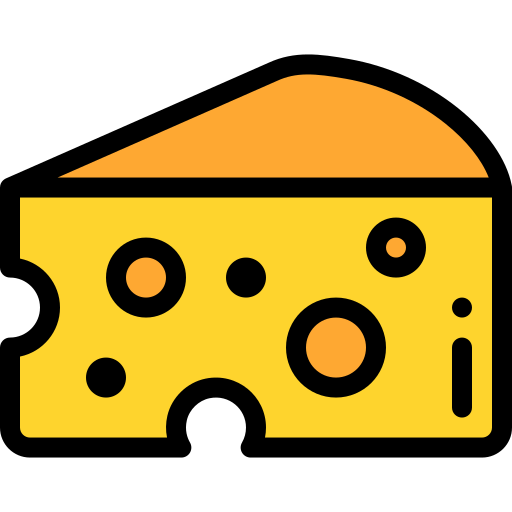
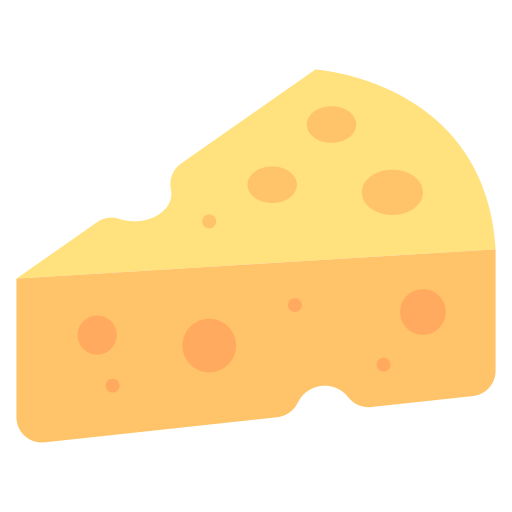
mini ikon part 2

diff --git a/Salatalar.html b/Salatalar.html
@@ -44,29 +44,17 @@
                 <h4>Keçi Peynirli Roka Salatası</h4>
                 <p>Keçi peyniri ile ceviz, roka, kuru domates ve zeytinyağlı ballı hardal sosun fevkalade birleşimi.</p>
                 <div class="ingredient-banner">
-    <div class="ingredient">
-        <img src="mini/cheese.png" alt="Keçi Peyniri">
-    </div>
-    <div class="ingredient">
-        <img src="mini/arugula.png" alt="Roka">
-    </div>
-    <div class="ingredient">
-        <img src="mini/tomato.png" alt="Kuru Domates">
-    </div>
-    <div class="ingredient">
-        <img src="mini/mustard.png" alt="Ballı Hardal">
-    </div>
-    <div class="ingredient">
-        <img src="mini/walnut.png" alt="Ceviz">
-    </div>
+    <div class="ingredient"> <img src="mini/cheese.png" alt="Keçi Peyniri"> </div>
+    <div class="ingredient"> <img src="mini/walnut.png" alt="Ceviz"> </div> 
+    <div class="ingredient"> <img src="mini/arugula.png" alt="Roka"> </div>
+    <div class="ingredient"> <img src="mini/tomato.png" alt="Kuru Domates"> </div>
+    <div class="ingredient"> <img src="mini/olive-oil.png" alt="Zeytinyağı"> </div> 
+    <div class="ingredient"> <img src="mini/mustard.png" alt="Ballı Hardal"> </div>
     </div>
 
-<div class="menu-price">
-    <span>495.00 TL</span>
-</div>
-            </div>
-        </div>
-    </div>
+<div class="menu-price"> 
+    <span>450 TL</span>
+</div> </div> </div> </div>
 
     <div class="flip-card">
         <div class="urun-ic-yapi">
@@ -77,9 +65,19 @@
             <div class="urun-arka">
                 <h4>Ton Balıklı Salata</h4>
                 <p>Ton balığı ve kapari, marul, rende havuç, kapya biberin çıtır galeta, beybi mısır ve mor lahana turşusuyla birleşimi.</p>
-            </div>
-        </div>
+                <div class="ingredient-banner">
+    <div class="ingredient"> <img src="mini/baby-corn.png" alt="Baby Mısır"> </div>
+    <div class="ingredient"> <img src="mini/bell-pepper.png" alt="Kapya Biber"> </div>
+    <div class="ingredient"> <img src="mini/caper.png" alt="Kapari"> </div>
+    <div class="ingredient"> <img src="mini/carrot.png" alt="Havuç"> </div>
+    <div class="ingredient"> <img src="mini/grissini.png" alt="Galeta"> </div>
+    <div class="ingredient"> <img src="mini/lettuce.png" alt="Marul"> </div>
+    <div class="ingredient"> <img src="mini/red-cabbage.png" alt="Mor Lahana Turşusu"> </div>
+    <div class="ingredient"> <img src="mini/tuna.png" alt="Ton Balığı"> </div>
     </div>
+<div class="menu-price"> 
+    <span>450 TL</span>
+</div> </div> </div> </div>
 
     <div class="flip-card">
         <div class="urun-ic-yapi">
@@ -90,9 +88,12 @@
             <div class="urun-arka">
                 <h4>Sezar Salata</h4>
                 <p>Izgara tavuk ve atom marulun çıtır kruton, rende parmesan ve sezar sosuyla harmanlanması.</p>
-            </div>
-        </div>
-    </div>
+                <div class="ingredient-banner">
+    <div class="ingredient"> <img src="mini/chicken-breast.png" alt="Izgara Tavuk"> </div>
+    <div class="ingredient"> <img src="mini/lettuce.png" alt="Atom Marul"> </div>
+    <div class="ingredient"> <img src="mini/grissini.png" alt="Kruton"> </div>
+    <div class="ingredient"> <img src="mini/parmesan.png" alt="Parmesan"> </div>
+    </div> </div> </div> </div>
 
     <div class="flip-card">
         <div class="urun-ic-yapi">
@@ -103,9 +104,15 @@
             <div class="urun-arka">
                 <h4>Köz Patlıcanlı Salata</h4>
                 <p>Köz patlıcan, tulum peyniri, roka, ıspanak ve cevizin pancar turşusu, nar ekşisi ve zeytinyağıyla harmanlandığı o eşsiz lezzeti.</p>
-            </div>
-        </div>
-    </div>
+            <div class="ingredient-banner">
+    <div class="ingredient"> <img src="mini/eggplant.png" alt="Köz Patlıcan"> </div>
+    <div class="ingredient"> <img src="mini/cheese.png" alt="Tulum Peyniri"> </div>
+    <div class="ingredient"> <img src="mini/arugula.png" alt="Roka"> </div>
+    <div class="ingredient"> <img src="mini/spinach.png" alt="Ispanak"> </div>
+    <div class="ingredient"> <img src="mini/walnut.png" alt="Ceviz"> </div>
+    <div class="ingredient"> <img src="mini/beet.png" alt="Pancar Turşusu"> </div>
+    <div class="ingredient"> <img src="mini/olive-oil.png" alt="Zeytinyağı"> </div>
+    </div> </div> </div> </div>
 
     <div class="flip-card">
         <div class="urun-ic-yapi">
@@ -116,6 +123,17 @@
             <div class="urun-arka">
                 <h4>Vegan Köfte Salata</h4>
                 <p>Vegan köfte ve haşlanmış mısır; marul, roka ve taze nanenin kapari, domates ve hardallı zeytinyağıyla yakaladığı efsane uyum.</p>
+                <div class="ingredient-banner">
+    <div class="ingredient"> <img src="mini/meatballs.png" alt="Vegan Köfte"> </div>
+    <div class="ingredient"> <img src="mini/corn.png" alt="Haşlanmış Mısır"> </div>
+    <div class="ingredient"> <img src="mini/lettuce.png" alt="Marul"> </div>
+    <div class="ingredient"> <img src="mini/arugula.png" alt="Roka"> </div>
+    <div class="ingredient"> <img src="mini/mint.png" alt="Nane"> </div>
+    <div class="ingredient"> <img src="mini/caper.png" alt="Kapari"> </div>
+    <div class="ingredient"> <img src="mini/tomato.png" alt="Domates"> </div>
+    <div class="ingredient"> <img src="mini/mustard.png" alt="Hardal"> </div>
+    <div class="ingredient"> <img src="mini/olive-oil.png" alt="Zeytinyağı"> </div>
+    </div>
             </div>
         </div>
     </div>

diff --git a/yemekler.css b/yemekler.css
@@ -369,25 +369,22 @@ body {
     }
 }
 
-/* Malzemeleri yan yana dizen kutu */
 .ingredient-banner {
     display: flex;
-    justify-content: center; /* Ortalar */
-    align-items: center;    /* Dikeyde hizalar */
-    gap: 12px;              /* Görseller arası boşluk */
+    justify-content: center;
+    align-items: center;
+    gap: 12px;
     padding: 15px 0;
-    margin-bottom: 10px;    /* Fiyatla arasına biraz mesafe */
+    margin-bottom: 10px;
 }
 
-/* Her bir görselin boyutu */
 .ingredient img {
-    width: 25px;            /* Buradan boyutu ayarlayabilirsin */
-    height: auto;           /* Oranı korur, görsel yamulmaz */
-    filter: drop-shadow(0 4px 6px rgba(0,0,0,0.3)); /* Görsellere hafif bir gölge (daha derin durur) */
+    width: 25px;
+    height: auto;
+    filter: drop-shadow(0 4px 6px rgba(0,0,0,0.3));
     transition: transform 0.2s;
 }
 
-/* Üstüne gelince minik bir büyüme efekti (opsiyonel) */
 .ingredient img:hover {
     transform: scale(1.2);
 }
@@ -397,7 +394,7 @@ body {
     font-size: 26px;
     font-weight: 800;
     color: #ffffff;
-    text-align: right; /* Görseldeki gibi sağa yasladık */
+    text-align: right;
     padding-top: 10px;
-    border-top: 1px solid rgba(255, 255, 255, 0.2); /* Üstüne ince bir çizgi */
+    border-top: 1px solid rgba(255, 255, 255, 0.2);
 }

diff --git a/Bowls.html b/Bowls.html
@@ -44,6 +44,15 @@
                 <h4>Tatlı Patates & Keçi Peynirli Tavuk Bowl</h4>
                 <p>Fırınlanmış tatlı patates ve ızgara tavuğun; ıspanak, haşlanmış nohut ve keçi peyniriyle birleşip pancar turşusu 
                     ve balsamik sosla tamamlandığı doyurucu bir lezzet.</p>
+                <div class="ingredient-banner">
+    <div class="ingredient"> <img src="mini/sweet-potato.png" alt="Tatlı Patates"> </div>
+    <div class="ingredient"> <img src="mini/chicken-breast.png" alt="Izgara Tavuk"> </div>
+    <div class="ingredient"> <img src="mini/spinach.png" alt="Ispanak"> </div>
+    <div class="ingredient"> <img src="mini/chickpea.png" alt="Nohut"> </div>
+    <div class="ingredient"> <img src="mini/cheese.png" alt="Keçi Peyniri"> </div>
+    <div class="ingredient"> <img src="mini/beet.png" alt="Pancar Turşusu"> </div>
+    <div class="ingredient"> <img src="mini/balsamic.png" alt="Balsamik Sos"> </div>
+    </div>  
             </div>
         </div>
     </div>
